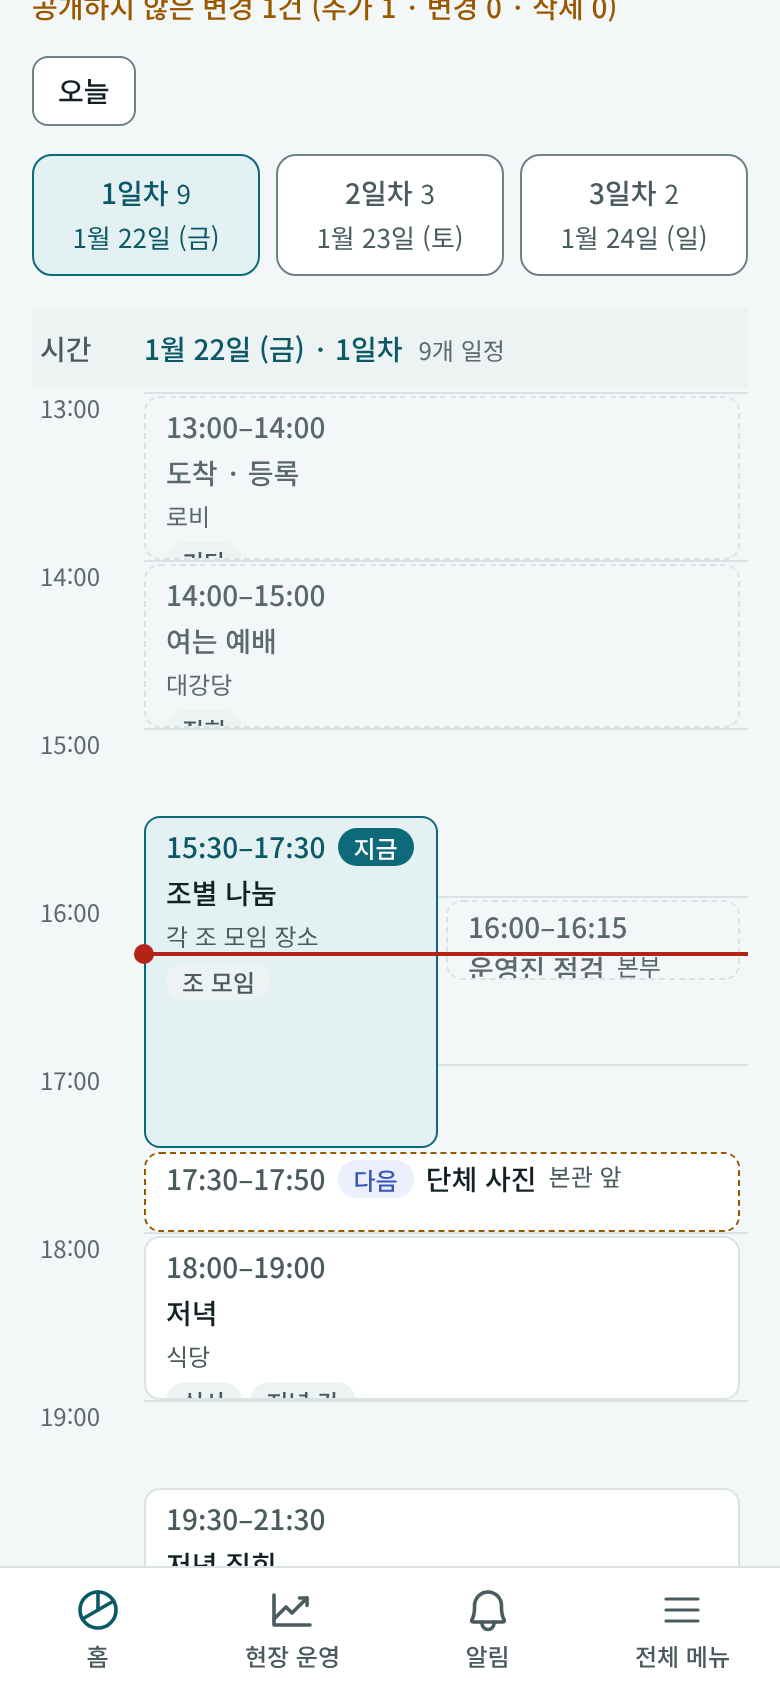
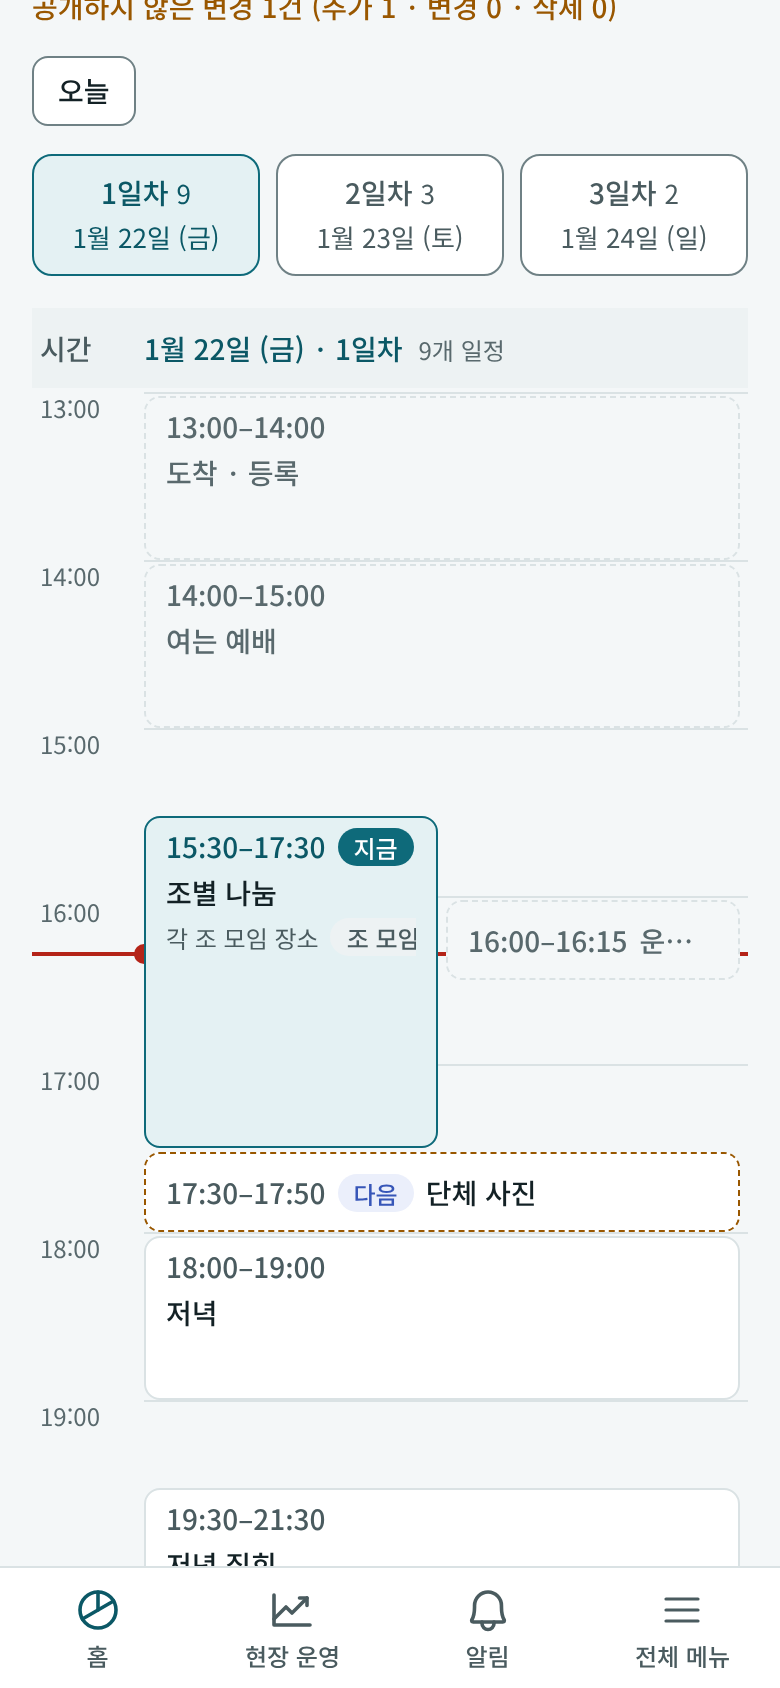
블록 글자 잘림 수정 전/후 스크린샷(390·1440·2000)과 확인 기록을 더한다 (#466)
Claude-Session: https://claude.ai/code/session_019gxRj7vqh4fhCn4pZoC6PS

diff --git a/docs/test_results/466-schedule-timetable/README.md b/docs/test_results/466-schedule-timetable/README.md
@@ -30,3 +30,15 @@ P06-02 Today Agenda(267:18675)·P06-S01 Multi-day(267:19239)·P06-MOB01(267:4032
 자동 테스트: `pnpm typecheck`, `pnpm lint` 통과, `pnpm test` 86개 파일 666개 통과. 새 테스트는 `timetable.test.ts`(배치·접기·시간대·자정 넘김·지난 판정)와 `EventSchedule.test.tsx`의 "timetable (#466)" 세 건(현재 시각 선·지금·다음·지난, 오늘 일차로 열기, 행사 전에는 선 없음)이다.
 
 못 한 것: 실제 휴대폰에서 손으로 스크롤·탭, 운영 서버, 백엔드 실서버(`VITE_API_MOCK=0`) 연결 확인, 1분 갱신을 실제로 기다려 본 확인(단위가 아닌 화면에서는 고정 시각만 봤다).
+
+## 후속: 블록 글자 잘림과 현재 시각 선 (2026-11-25)
+
+통합 확인(`integration/operator-ui-figma`)에서 찾은 세 가지를 고쳤다. 같은 데이터·시각으로 390·1440·2000px 전(`10-fix-before-*`)/후(`11-fix-after-*`)를 찍었다(이 브랜치에는 통합 브랜치의 본문 최대 폭 1128px가 없어 데스크톱 칸이 더 넓다).
+
+| 문제 | 고친 방법 |
+|---|---|
+| 15분 블록(16:00–16:15 운영진 점검)의 제목이 둘째 줄로 넘어가 잘리고, 현재 시각 선이 글자 위를 지남 | 짧은 블록은 한 줄(시각 + 지금·다음 + 제목, 넘치면 말줄임). 블록은 최소 30분 높이. **현재 시각 선은 블록 아래 층**에 두고 왼쪽 시각 눈금 칸부터 그어, 블록이 칸을 다 채워도 선이 보이게 함 |
+| 데스크톱 1시간 블록의 태그 줄이 테두리에 걸려 잘림 | 블록 길이로 보여 줄 양을 정함(`blockDensity`): 45분 미만 한 줄, 70분 미만 시각·제목 두 줄, 70분 이상 장소·태그 줄까지. 172:3 프레임도 1시간 블록은 시각·제목만, 1시간 반부터 장소를 보인다. 태그 줄은 한 줄 높이로 막아 넘치는 태그는 통째로 빠짐 |
+| 끝 시각 없는 블록(21:40 간식)의 태그가 거의 가려짐 | 다음 시작(22:30)까지 그린 길이(50분)로 같은 규칙: 시각·제목만 |
+
+숨긴 장소·태그는 화면 낭독기용으로 DOM에 남는다. 참가자 블록은 눌러 펼치면 장소·바뀐 내용·설명이 모두 보인다. 공개 대기는 주황 점선 테두리, 지금은 강조 배경으로 짧은 블록에서도 보인다.
